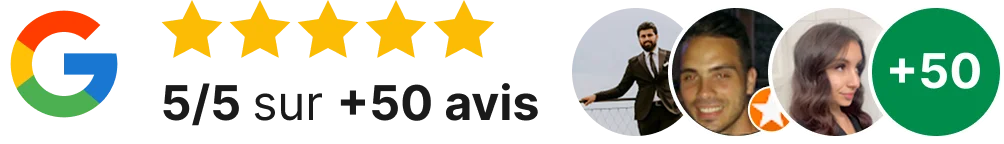
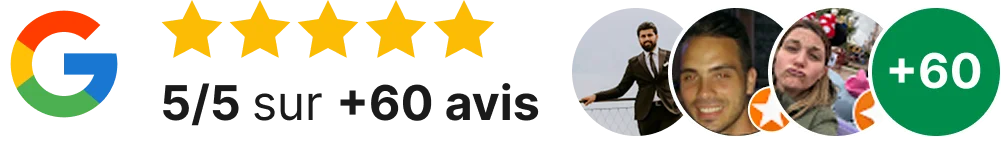
change avis

diff --git a/index.html b/index.html
@@ -61,7 +61,7 @@ src="https://www.facebook.com/tr?id=532778493168576&ev=PageView&noscript=1"
 
   <!-- Banner -->
   <div class="banner">
-  <p>+50 clients satisfaits et nous recommandent</p>
+  <p>+60 clients satisfaits et nous recommandent</p>
 </div> 
   
 
@@ -593,7 +593,7 @@ src="https://www.facebook.com/tr?id=532778493168576&ev=PageView&noscript=1"
 "address": {
   "@type": "PostalAddress",
   "streetAddress": "Rue de la Bergerie 5",
-  "postalCode": "1350",
+  "postalCode": "1530",
   "addressLocality": "Payerne",
   "addressRegion": "Vaud",
   "addressCountry": "CH"
